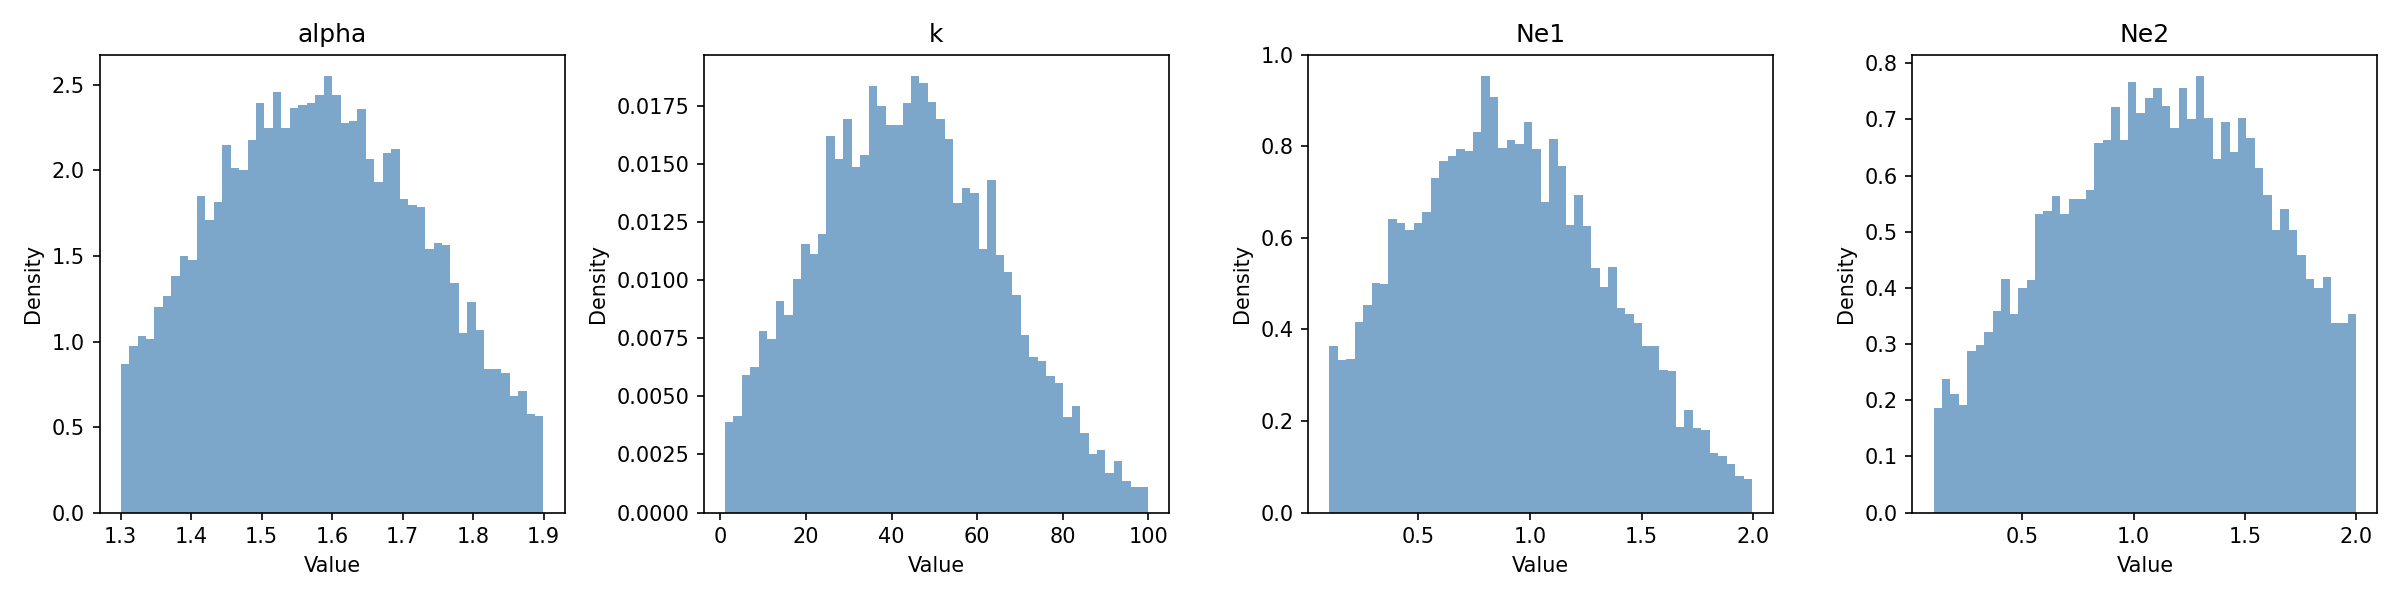
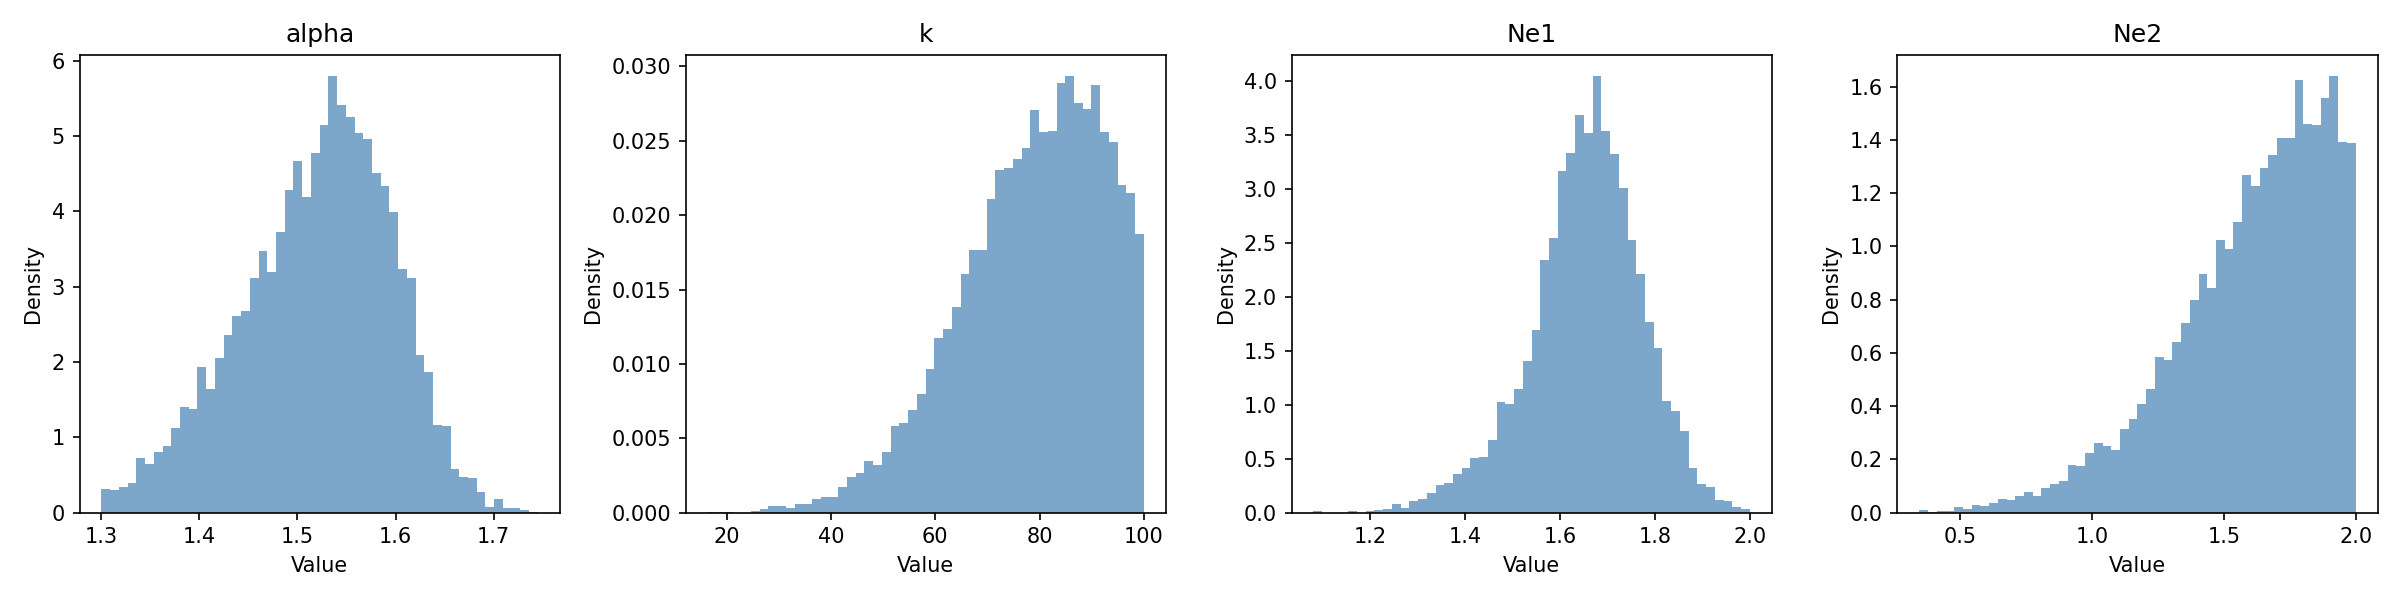
Append old sim thetas to new

diff --git a/SBI.py b/SBI.py
@@ -470,6 +470,43 @@ def run_single_sim(_):
 
 if __name__ == "__main__":
 
+    # Run new simulations in parallel
+    num_new_simulations = 100000
+    num_workers = os.cpu_count() - 1
+    print(f"Running {num_new_simulations} simulations across {num_workers} cores...")
+
+    with ProcessPoolExecutor(max_workers=num_workers) as executor:
+        results = list(executor.map(run_single_sim, range(num_new_simulations)))
+
+    thetas_new, xs_new = zip(*results)
+    theta_new = torch.stack(thetas_new)
+    x_new = torch.stack(xs_new)
+
+    # Load and concatenate with previous simulations if they exist
+    if os.path.exists("theta.npy") and os.path.exists("x.npy"):
+        theta_old = torch.tensor(np.load("theta.npy"), dtype=torch.float32)
+        x_old     = torch.tensor(np.load("x.npy"),     dtype=torch.float32)
+        theta = torch.cat([theta_old, theta_new], dim=0)
+        x     = torch.cat([x_old,     x_new],     dim=0)
+        print(f"Loaded {theta_old.shape[0]} previous simulations, "
+              f"total now: {theta.shape[0]}")
+    else:
+        theta, x = theta_new, x_new
+        print("No previous simulations found, starting fresh.")
+
+    print(f"Final theta shape: {theta.shape}")
+    print(f"Final x shape: {x.shape}")
+
+    # Overwrite saved simulations with the full combined set
+    np.save("theta.npy", theta.numpy())
+    np.save("x.npy",     x.numpy())
+
+    # Train NPE on the full combined set
+    inferrer = sbi_inference.SNPE(prior=prior)
+    inferrer.append_simulations(theta, x)
+    density_estimator = inferrer.train()
+    
+    """
     # Test simulator output
     test_params = prior.sample((1,)).squeeze()
     test_out = simulator(test_params)
@@ -499,7 +536,9 @@ if __name__ == "__main__":
     inferrer = sbi_inference.SNPE(prior=prior)
     inferrer.append_simulations(theta, x)
     density_estimator = inferrer.train()
+    """
     posterior = inferrer.build_posterior(density_estimator)
+    
 
     # Sample posterior given observed stats
     x_obs = torch.tensor(pd.read_csv("observed_sum_stats_SBI.csv").values, dtype=torch.float32).squeeze()